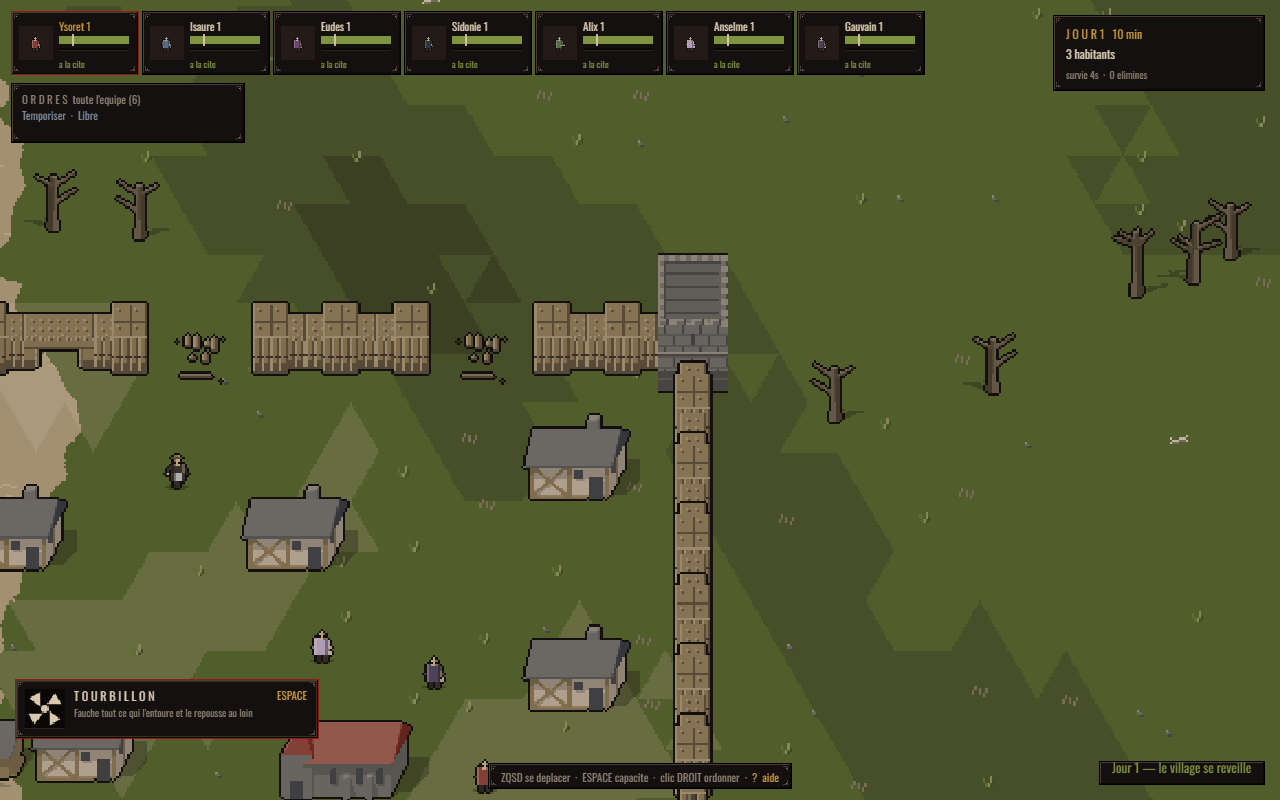
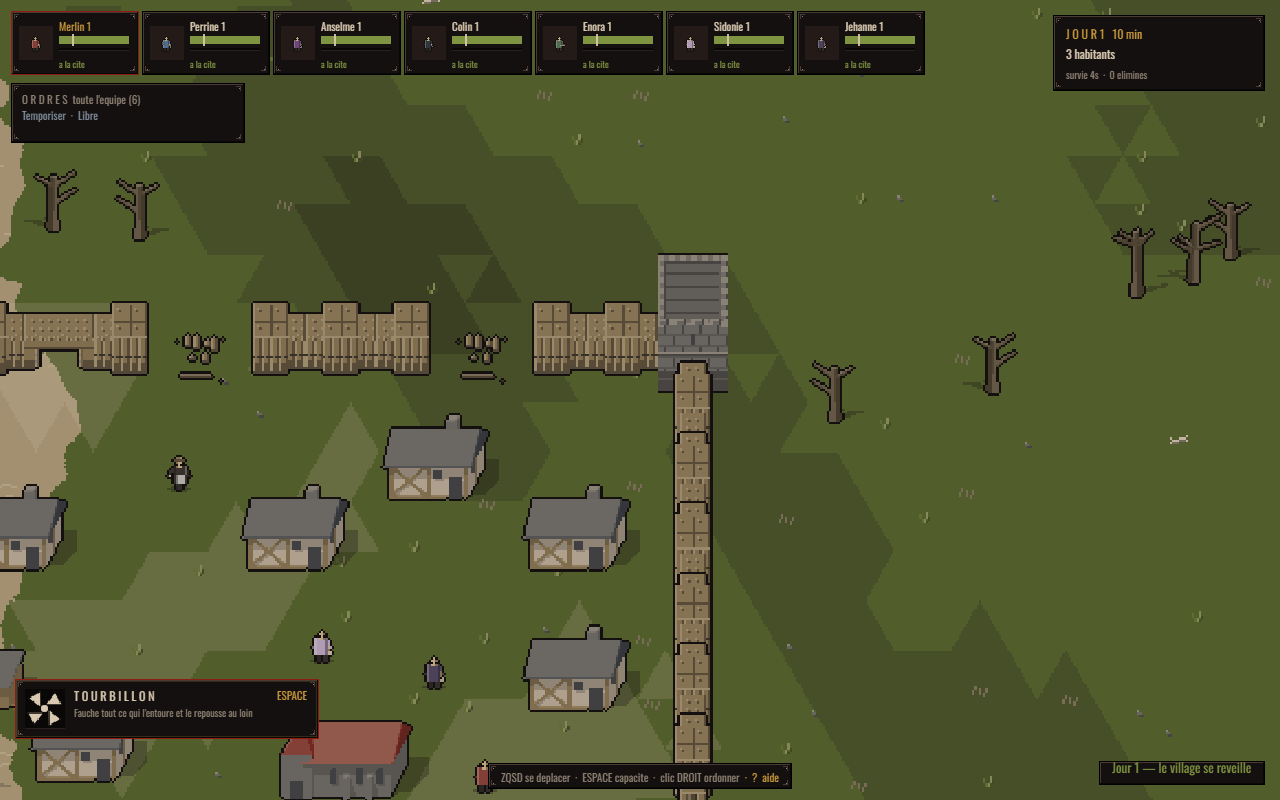
feat(village): les maisons se serrent autour de la place — 12 a 15, emprises qui se touchent

diff --git a/src/core/village.ts b/src/core/village.ts
@@ -24,8 +24,9 @@
  *    a chaque poste (§4.18) et la porte est la ou il croise le mur. Un mur sans
  *    porte en recoit une au milieu (§4.24 : une enceinte a toujours une porte).
  * 5. **Les breches** : le village est en ruine (§4.6), une ou deux par pan.
- * 6. **Les maisons**, le long des rues qui vont de l'eglise aux portes, avec
- *    une case de jardin entre elles. Jamais sur la rue, jamais contre l'eglise.
+ * 6. **Les maisons**, serrees autour de la place et le long des rues qui vont
+ *    de l'eglise aux portes. Jamais sur la rue, jamais contre l'eglise, jamais
+ *    trois a la file.
  *
  * Il ne connait pas Phaser. Il lit la grille pour le terrain et rend un
  * **plan** ; c'est la scene qui pose les images et les corps.
@@ -102,22 +103,28 @@ const PAN_SANS_TOUR = 10;
 /** Deux portes sur le meme pan ne sont jamais plus proches que ca. */
 const ECART_ENTRE_PORTES = 4;
 
-const MAISONS_MIN = 9;
-const MAISONS_MAX = 12;
+const MAISONS_MIN = 12;
+const MAISONS_MAX = 15;
 /**
  * Une maison se tient a une case au moins de l'emprise de l'eglise : c'est le
  * parvis. Trois cases depuis la case centrale, l'emprise en prenant une.
  */
 const MARGE_EGLISE = 3;
 /**
- * Deux emprises qui se touchent, c'est permis, mais pas la regle : le village
- * respire. Trois a la file, jamais — ce serait une rangee, donc un lotissement.
+ * Deux emprises qui se touchent, c'est la regle plus que l'exception : le
+ * jardin de l'emprise ecarte deja les toits, et des maisons trop separees « ne
+ * font pas village » (Angelos, 18 septembre 2026). Trois a la file, jamais —
+ * ce serait une rangee, donc un lotissement.
  */
-const CHANCE_DE_SE_TOUCHER = 0.25;
+const CHANCE_DE_SE_TOUCHER = 0.85;
+/** Une maison prefere etre pres de l'eglise : le village se serre autour de sa place. */
+const PORTEE_DU_COEUR = 4;
 /** Une maison dans les arbres, c'est possible, mais l'herbe passe avant. */
 const PENALITE_SOUS_BOIS = 0.3;
-/** Trois maisons alignees a moins de ca, c'est une rangee : on refuse la troisieme. */
-const PORTEE_RANGEE = 6;
+/** Trois maisons collees a la file, c'est une rangee : on refuse la troisieme. */
+const PORTEE_RANGEE = 2;
+/** Au-dela, la maison serait cernee : deux voisines qui la touchent, pas trois. */
+const VOISINES_QUI_TOUCHENT = 2;
 
 /** Ce sur quoi un mur tient de lui-meme. */
 const SOL_DES_MURS: Terrain[] = ["herbe"];
@@ -495,11 +502,10 @@ function distanceAuSegment(p: Point, a: Point, b: Point): number {
 }
 
 /**
- * Une maison de plus ici ferait-elle trois maisons alignees, a portee de
- * rangee l'une de l'autre ? On regarde depuis chaque maison deja posee sur la
- * meme ligne (ou colonne), pas seulement depuis la candidate : deux maisons a
- * six cases l'une de l'autre et une troisieme entre les deux, c'est une rangee
- * vue du milieu.
+ * Une maison de plus ici ferait-elle trois maisons collees a la file ? On
+ * regarde depuis chaque maison deja posee sur la meme ligne (ou colonne), pas
+ * seulement depuis la candidate : deux maisons a quatre cases l'une de l'autre
+ * et une troisieme entre les deux, c'est une rangee vue du milieu.
  */
 function feraitUneRangee(maisons: MaisonPlan[], c: number, l: number): boolean {
   const toutes = [...maisons, { colonne: c, ligne: l }];
@@ -563,10 +569,16 @@ function loger(
     const dansLesArbres = [terrainDe(grille, c, l), terrainDe(grille, c + 1, l), terrainDe(grille, c, l + 1), terrainDe(grille, c + 1, l + 1)].includes("sous-bois");
     const aLaRue = rues.length === 0 ? CASE * 2 : Math.min(...rues.map((r) => distanceAuSegment(milieu, centrePx, r)));
     // Sur la rue, on ne bati pas ; juste a cote, c'est la meilleure place ; loin,
-    // c'est possible mais moins probable. Le bruit casse les alignements.
+    // c'est possible mais moins probable. Et pres de l'eglise avant loin d'elle :
+    // c'est ce qui serre le village autour de sa place au lieu de l'eparpiller.
+    // Le bruit casse les alignements.
     if (aLaRue < CASE * 1.5) continue;
+    const auCoeur = Math.hypot(c + 0.5 - centre.colonne, l + 0.5 - centre.ligne);
     const score =
-      Math.exp(-(aLaRue - CASE * 1.5) / (CASE * 2)) + rng.range(0, 0.8) - (dansLesArbres ? PENALITE_SOUS_BOIS : 0);
+      Math.exp(-(aLaRue - CASE * 1.5) / (CASE * 2)) +
+      Math.exp(-auCoeur / PORTEE_DU_COEUR) +
+      rng.range(0, 0.6) -
+      (dansLesArbres ? PENALITE_SOUS_BOIS : 0);
     candidates.push({ c, l, score });
   }
   candidates.sort((a, b) => b.score - a.score);
@@ -584,8 +596,8 @@ function loger(
       const chevauche = maisons.some((m) => Math.abs(m.colonne - candidate.c) < 2 && Math.abs(m.ligne - candidate.l) < 2);
       if (chevauche) continue;
       const touchees = maisons.filter((m) => Math.abs(m.colonne - candidate.c) < 3 && Math.abs(m.ligne - candidate.l) < 3);
-      if (touchees.length > 1) continue;
-      if (touchees.length === 1 && !serree && !rng.chance(CHANCE_DE_SE_TOUCHER)) continue;
+      if (touchees.length > VOISINES_QUI_TOUCHENT) continue;
+      if (touchees.length > 0 && !serree && !rng.chance(CHANCE_DE_SE_TOUCHER)) continue;
       // Jamais trois sur la meme ligne ni la meme colonne : c'est un alignement,
       // et un alignement se lit comme un lotissement, quel que soit l'ecart.
       if (feraitUneRangee(maisons, candidate.c, candidate.l)) continue;

diff --git a/src/core/village.test.ts b/src/core/village.test.ts
@@ -61,11 +61,11 @@ describe("Le generateur de villages", () => {
     }
   });
 
-  it("n'aligne jamais trois maisons", () => {
+  it("ne colle jamais trois maisons a la file", () => {
     for (const plan of plans.values()) {
       for (const m of plan.maisons) {
-        const ligne = plan.maisons.filter((a) => a.ligne === m.ligne && Math.abs(a.colonne - m.colonne) <= 6);
-        const colonne = plan.maisons.filter((a) => a.colonne === m.colonne && Math.abs(a.ligne - m.ligne) <= 6);
+        const ligne = plan.maisons.filter((a) => a.ligne === m.ligne && Math.abs(a.colonne - m.colonne) <= 2);
+        const colonne = plan.maisons.filter((a) => a.colonne === m.colonne && Math.abs(a.ligne - m.ligne) <= 2);
         expect(ligne.length).toBeLessThanOrEqual(2);
         expect(colonne.length).toBeLessThanOrEqual(2);
       }
@@ -108,11 +108,11 @@ describe("Le generateur de villages", () => {
     }
   });
 
-  it("pose au moins sept maisons et douze au plus, une seule ferme, sans se chevaucher ni toucher un mur", () => {
+  it("pose au moins neuf maisons et quinze au plus, une seule ferme, sans se chevaucher ni toucher un mur", () => {
     for (const plan of plans.values()) {
-      // Neuf visees, mais la place est ce qu'elle est : entre la mer et la foret.
-      expect(plan.maisons.length).toBeGreaterThanOrEqual(7);
-      expect(plan.maisons.length).toBeLessThanOrEqual(12);
+      // Douze visees, mais la place est ce qu'elle est : entre la mer et la foret.
+      expect(plan.maisons.length).toBeGreaterThanOrEqual(9);
+      expect(plan.maisons.length).toBeLessThanOrEqual(15);
       expect(plan.maisons.filter((m) => m.ferme).length).toBe(1);
 
       const murs = new Set(plan.enceinte.map((m) => cleCase(m.colonne, m.ligne)));

diff --git a/SUITE.md b/SUITE.md
@@ -1005,10 +1005,12 @@ que poser. Dans l'ordre :
    il croise le mur, à deux cases près. Un pan sans porte en reçoit une au milieu (§4.24).
 5. **Les brèches** : une par pan (deux au-delà de 12 cases), d'une ou deux cases, jamais contre
    une porte, une tour ou une autre brèche.
-6. **Les maisons** : 9 à 12 visées, 7 au moins (la place est ce qu'elle est) ; elles bordent
-   les rues (église → portes) sans être dessus, jamais contre une porte, ni dans un bastion ni
-   dans sa bouche, jamais trois alignées ; deux emprises ne se touchent qu'une fois sur quatre.
-   La ferme est la plus à l'écart.
+6. **Les maisons** : 12 à 15 visées, 9 au moins (la place est ce qu'elle est) ; serrées
+   autour de la place et le long des rues (église → portes) sans être dessus, jamais contre
+   une porte, ni dans un bastion ni dans sa bouche ; les emprises se touchent (deux voisines
+   au plus, jamais trois collées à la file). La ferme est la plus à l'écart. ⚠ Première
+   version à 9-12 maisons espacées, refusée par Angelos : « trop séparées, ça fait pas
+   village ». Resserrée dans la foulée.
 
 **Branché** : `ArenaScene` tire le plan avant le décor (les arbres ne poussent pas dans
 l'emprise), `poserLesMaisons(plan)` et `dresserLEnceinte(plan)` remplacent la disposition à la
@@ -1028,10 +1030,12 @@ graine (le village entier, l'angle nord-est de près), dans
 `captures/jeu/2026-09-18-villages-generes/`. `init` de l'arène accepte `graineVillage` pour
 rejouer un village précis.
 
-**Ce qu'Angelos doit juger sur ces captures** : la porte est-ouest (une encoche plus qu'une
-porte), la colonne nord-sud en chapelet de poteaux, la jonction mur / bastion aux angles
-rentrants, la masse des tours. Sa question du jour — « pourquoi tous les villages sont au
-même endroit ? » — a sa réponse au §4.29 : l'église, le port et les postes sont des constantes.
+**Verdict d'Angelos sur les murs, tours et portes (18 septembre, sur ces captures)** : « rien,
+on est bon ». Les quatre doutes (porte est-ouest en encoche, colonne nord-sud en chapelet,
+jonction mur / bastion, masse des tours) restent notés, et le dessin se change quand on veut
+sans toucher au générateur ni à la sauvegarde — `murs.ts` ne connaît que des raccords. Sa
+question du jour — « pourquoi tous les villages sont au même endroit ? » — a sa réponse au
+§4.29 : l'église, le port et les postes sont des constantes.
 
 **497 tests verts** (+12). `tsc` passe.
 
